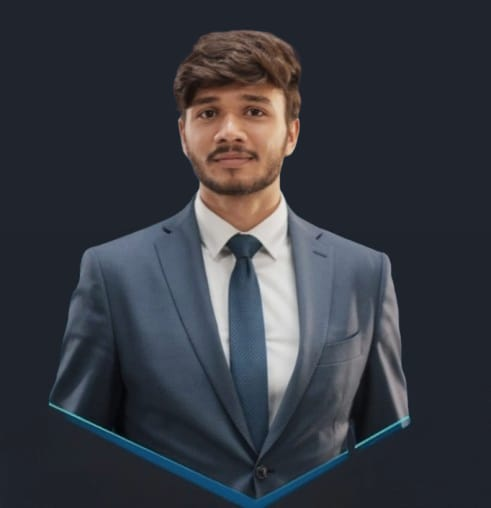
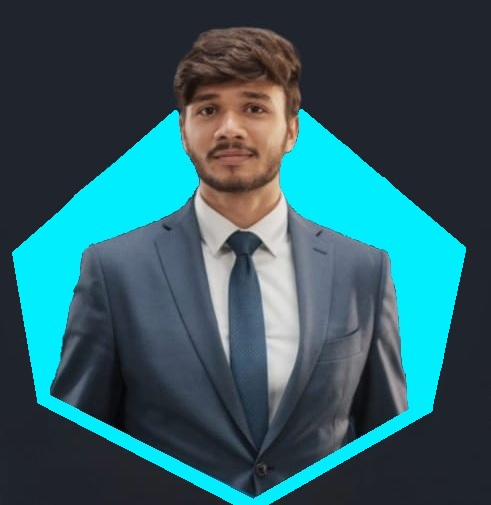
color change

Changed region(s): [[0.0, 0.0297, 0.947, 1.0], [0.4277, 0.4158, 0.5499, 0.505]]

diff --git a/css/style.css b/css/style.css
@@ -15,8 +15,8 @@
     --bg-color: #1f242d;
     --second-bg-color: #323946;
     --text-color: #fff;
-    /* --main-color: #0ef; */
-    --main-color: #a37cf0;
+    --main-color: #0ef;
+    /* --main-color: #a37cf0; */
 }
 
 html {
@@ -390,7 +390,7 @@ span {
 .skill-main h3 {
     margin-bottom: 2.5rem;
     /* font-size: var(--text-color); */
-    color: #a37cf0;
+    color: #0ef;
     text-align: center;
     font-size: 2.8rem;
 
